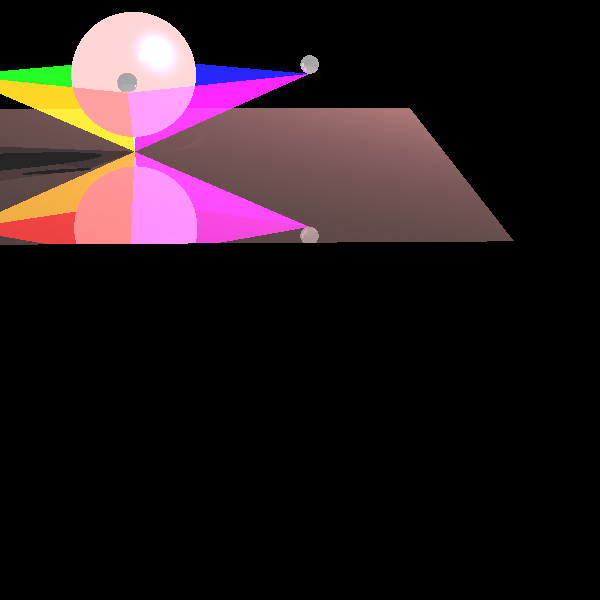
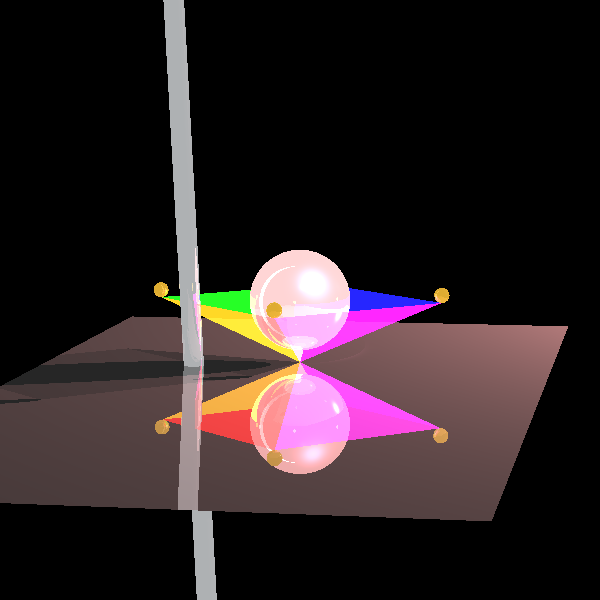
7 3D Amazing!!!

diff --git a/unitTests/renderer/ReflectionRefractionTests.java b/unitTests/renderer/ReflectionRefractionTests.java
@@ -5,13 +5,11 @@ package renderer;
 
 import static java.awt.Color.*;
 
-import geometries.Polygon;
+import geometries.*;
 import lighting.DirectionalLight;
 import lighting.PointLight;
 import org.junit.jupiter.api.Test;
 
-import geometries.Sphere;
-import geometries.Triangle;
 import lighting.AmbientLight;
 import lighting.SpotLight;
 import primitives.*;
@@ -110,23 +108,23 @@ public class ReflectionRefractionTests {
 
     @Test
     public void myPicture(){
-        Camera camera = new Camera(new Point(7500, 250, 950)) //
-                .setVPSize(200, 200).setVPDistance(750).Turn_right(Math.PI/80).Turn_up(Math.PI/16);
+        Camera camera = new Camera(new Point(9000, 1500, 1350),new Point(250,0,250)) //
+                .setVPSize(200, 200).setVPDistance(750);
 
         scene.setAmbientLight(new AmbientLight(new Color(WHITE), 0.15));
 
         scene.geometries.add(new Sphere(200,new Point(250,0,250))
-                        .setMaterial(new Material().setShininess(100).setkD(0.6).setkS(0.4))
+                        .setMaterial(new Material().setShininess(100).setkD(0.6).setkS(0.4).setkR(1))
                         .setEmission(new Color(PINK)),
                 new Sphere(30, new Point(816,0,280))
                         .setMaterial(new Material().setShininess(100).setkD(0.8).setkS(0.2).setkR(0.2))
-                        .setEmission(new Color(gray)),
+                        .setEmission(new Color(184,134,11)),
                 new Sphere(30, new Point(250,566,280))
                         .setMaterial(new Material().setShininess(100).setkD(0.8).setkS(0.2).setkR(0.2))
-                        .setEmission(new Color(gray)),
+                        .setEmission(new Color(184,134,11)),
                 new Sphere(30, new Point(250,-566,280))
                         .setMaterial(new Material().setShininess(100).setkD(0.8).setkS(0.2).setkR(0.2))
-                        .setEmission(new Color(gray)),
+                        .setEmission(new Color(184,134,11)),
                 new Triangle(new Point(816,0,250),
                         new Point(250,566,250),
                         new Point(250,0,0))
@@ -147,16 +145,19 @@ public class ReflectionRefractionTests {
                         new Point(250,0,0))
                         .setMaterial(new Material().setShininess(80)
                                 .setkT(0.7)).setEmission(new Color(red)),
-                new Triangle(new Point(2000,-1000,0),
+                new Triangle(new Point(3000,-1000,0),
                         new Point(-1000,-1000,0),
-                        new Point(2000,1000,0))
+                        new Point(3000,1000,0))
                         .setMaterial(new Material().setShininess(100)
                                 .setkR(0.6).setkS(80).setkD(20)),
-                new Triangle(new Point(2000,1000,0),
+                new Triangle(new Point(3000,1000,0),
                         new Point(-1000,1000,0),
                         new Point(-1000,-1000,0))
                         .setMaterial(new Material().setShininess(100)
-                                .setkR(0.6).setkS(80).setkD(20)));
+                                .setkR(0.6).setkS(80).setkD(20)),
+                new Tube(new Ray(new Point(400, -400,0),new Vector(0,-0.05,1)),40)
+                        .setMaterial(new Material().setkR(0.3).setkD(0.5).setkS(0.5)
+                                .setShininess(100)).setEmission(new Color(136,139,141)));
                           /* new Polygon(new Point(-200,-500,0),
                                        new Point(-200,-500,2000),
                                        new Point(-200,500,2000),

diff --git a/src/renderer/Camera.java b/src/renderer/Camera.java
@@ -57,8 +57,11 @@ public class Camera {
         this.vRight = vTo.crossProduct(vUp).normalize();
     }
 
-    public Camera(Point place){
-        this(place, new Vector(-1, 0, 0), new Vector(0, 0, 1));
+    public Camera(Point place, Point to){
+
+        this(place, new Point(to.getX(), to.getY(), place.getZ()).subtract(place), new Vector(0, 0, 1));
+        double alpha = Math.acos(this.vTo.dotProduct(to.subtract(place).normalize()));
+        this.Turn_up(alpha);
     }
     public Camera Turn_right(double alpha){
         this.vRight= this.vRight.rotate(alpha, this.vTo.scale(-1));

diff --git a/src/geometries/Tube.java b/src/geometries/Tube.java
@@ -4,6 +4,7 @@ import primitives.Point;
 import primitives.Ray;
 import primitives.Vector;
 
+import java.util.LinkedList;
 import java.util.List;
 
 import static primitives.Util.alignZero;
@@ -135,6 +136,8 @@ public class Tube extends Geometry{
             return List.of(new GeoPoint(this, ray.getPoint(t1)),new GeoPoint(this, ray.getPoint(t2)));
         else if (alignZero(t1 - maxDistance) < 0)// t2 is behind the head
             return List.of(new GeoPoint(this, ray.getPoint(t1)));
+        //List<Point> points = findIntersections(ray);
         return null;
+
     }
 }

diff --git a/src/primitives/Point.java b/src/primitives/Point.java
@@ -31,6 +31,8 @@ public class Point {
     }
 
     public double getX(){ return xyz.d1;}
+    public double getY(){ return xyz.d2;}
+    public double getZ(){ return xyz.d3;}
 
     @Override
     public boolean equals(Object o) {
